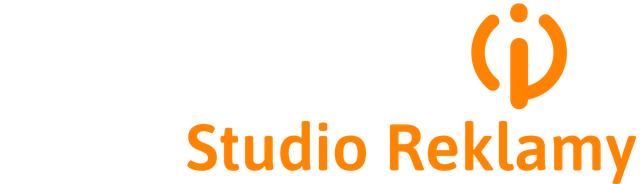
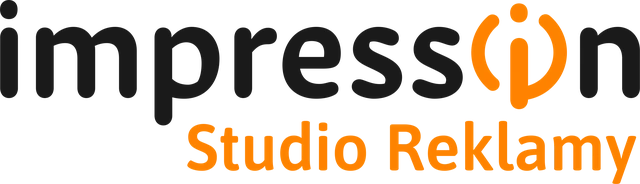
nowi sponsorzy

Changed region(s): [[0.0, 0.1359, 0.75, 0.6793], [0.9062, 0.1359, 1.0, 0.5435], [0.0, 0.0, 0.0312, 0.1087]]

diff --git a/zasoby/style.css b/zasoby/style.css
@@ -76,9 +76,12 @@ h1,h2,h3{font-family:var(--font-naglowki);font-weight:400;letter-spacing:.01em;l
 .belka__wynik,.belka__status{font-family:var(--font-naglowki);font-size:20px;color:var(--zolty);line-height:1;white-space:nowrap}
 .licznik{display:flex;gap:6px;font-family:var(--font-naglowki);font-size:21px;line-height:1;color:var(--zolty);white-space:nowrap}
 .licznik small{font-family:var(--font-tresc);font-size:11px;color:var(--jasny-na-granacie);margin-left:1px}
-.belka__social{display:none;gap:14px}
-.belka__social a{text-decoration:none;font-weight:600;color:var(--jasny-na-granacie)}
-.belka__social a:hover{color:#fff}
+.ikona-social{display:inline-grid;place-items:center;border-radius:50%;text-decoration:none;color:inherit;transition:background .2s,color .2s,box-shadow .2s}
+.ikona-social svg{display:block}
+.belka__social{display:none;gap:4px;align-items:center}
+.belka__social .ikona-social{width:34px;height:34px;color:var(--jasny-na-granacie)}
+.belka__social .ikona-social svg{width:18px;height:18px}
+.belka__social .ikona-social:hover{color:#fff;background:rgba(255,255,255,.1)}
 
 /* =====================================================================
    NAGŁÓWEK Z MENU
@@ -455,12 +458,11 @@ img.herb,img.belka__herb,img.tabela__herb{object-fit:contain}
 .logo-sp{background:#fff;box-shadow:inset 0 0 0 1px var(--linia);display:flex;flex-direction:column;align-items:center;justify-content:center;gap:8px;min-height:120px;font-family:var(--font-naglowki);color:var(--granat);font-size:26px;line-height:1;text-align:center;padding:16px 18px;text-decoration:none;transition:transform .2s,box-shadow .2s}
 a.logo-sp:hover{transform:translateY(-2px);box-shadow:inset 0 0 0 1px var(--blekit),0 10px 24px -14px rgba(0,47,108,.45)}
 .logo-sp__img{display:block;max-height:92px;max-width:100%;width:auto;height:auto;object-fit:contain}
-.logo-sp--ciemne{background:var(--granat);box-shadow:none;color:#fff}
-.loga--tytularny .logo-sp{min-height:170px;font-size:56px;background:var(--paski),var(--tlo-granat);box-shadow:none;color:#fff}
-.loga--tytularny .logo-sp small{display:block;font-family:var(--font-tresc);font-size:14px;letter-spacing:.2em;color:var(--zolty)}
+.loga--tytularny .logo-sp{min-height:180px;font-size:56px}
 .loga--tytularny .logo-sp__img{max-height:130px}
 .loga--partner .logo-sp{min-height:96px;font-size:19px;padding:14px}
-.loga--partner .logo-sp__img{max-height:68px;max-width:78%}
+.loga--partner .logo-sp__img{max-height:64px;max-width:72%}
+.loga--techniczny .logo-sp__img{max-height:56px;max-width:70%}
 .cta > *{max-width:720px}
 .cta p{font-size:21px}
 
@@ -528,13 +530,15 @@ a.logo-sp:hover{transform:translateY(-2px);box-shadow:inset 0 0 0 1px var(--blek
 .dane-klubu{display:grid;grid-template-columns:auto 1fr;gap:6px 16px;background:#fff;padding:18px;margin:0}
 .dane-klubu dt{font-weight:700;color:var(--tekst-szary)}
 .dane-klubu dd{margin:0}
-.kontakt__mail{font-family:var(--font-naglowki);font-size:36px;line-height:1;word-break:break-all}
+.kontakt__mail{font-family:var(--font-naglowki);font-size:clamp(24px,7vw,36px);line-height:1;overflow-wrap:anywhere}
 .kontakt__mail a{color:var(--granat);text-decoration-color:var(--zolty)}
 .kontakt__osoby{list-style:none;padding:0;margin:0 0 24px;display:grid;gap:12px}
 .kontakt__osoby li{display:grid}
 .kontakt__osoby a{display:inline-flex;align-items:center;min-height:44px}
-.kontakt__social{list-style:none;padding:0;display:flex;flex-wrap:wrap;gap:8px 20px;font-weight:700;text-transform:uppercase}
-.kontakt__social a{display:inline-flex;align-items:center;min-height:44px}
+.kontakt__social{list-style:none;padding:0;display:flex;flex-wrap:wrap;gap:10px}
+.kontakt__social .ikona-social{width:52px;height:52px;background:var(--granat);color:#fff}
+.kontakt__social .ikona-social svg{width:24px;height:24px}
+.kontakt__social .ikona-social:hover{background:var(--blekit);color:var(--granat-ciemny)}
 .kontakt__karta{background:var(--granat);color:#fff;padding:24px}
 .kontakt__karta h2{font-size:30px;color:var(--zolty);margin-bottom:6px}
 .polityka ul{padding-left:1.2em}
@@ -545,7 +549,9 @@ a.logo-sp:hover{transform:translateY(-2px);box-shadow:inset 0 0 0 1px var(--blek
 .stopka{background:var(--granat-ciemny);color:#D5E2F2;padding:44px 0 24px;font-size:17px}
 .stopka__kolumny{display:grid;grid-template-columns:1fr 1fr;gap:22px 16px}
 .stopka__kolumny > div:nth-child(-n+2){grid-column:1/-1}
-.stopka__social{display:flex;flex-wrap:wrap;gap:0 16px}
+.stopka__social{display:flex;flex-wrap:wrap;gap:10px}
+.stopka .ikona-social{display:grid;width:46px;height:46px;min-height:0;box-shadow:inset 0 0 0 1px rgba(255,255,255,.28)}
+.stopka .ikona-social:hover{background:var(--blekit);color:var(--granat-ciemny);box-shadow:none}
 .stopka h2{font-size:26px;color:var(--blekit);margin-bottom:8px}
 .stopka ul{list-style:none;margin:0;padding:0}
 .stopka a{color:#fff;text-decoration:none;display:inline-flex;align-items:center;min-height:40px}
@@ -608,7 +614,7 @@ a.logo-sp:hover{transform:translateY(-2px);box-shadow:inset 0 0 0 1px var(--blek
 .mecz,.zawodniczka,.kafel,.news,.produkt,.grupa,.ostatni,.tabela-ramka,
 .logo-sp,.dane-klubu,.kal__wpis,.album .galeria__el,.formularz__ramka iframe,
 .artykul__foto,.plakat__foto img,.druzyna__zdjecie img{border-radius:var(--r-m);overflow:hidden}
-.panel,.kontakt__karta,.loga--tytularny .logo-sp{border-radius:var(--r-l);overflow:hidden}
+.panel,.kontakt__karta{border-radius:var(--r-l);overflow:hidden}
 .kafel--akademia{border-radius:var(--r-l)}
 .kal__dzien{border-radius:var(--r-s)}
 /* Wpisy kalendarium: kolorowy pasek z lewej (rysowany cieniem, bo ramka nie lubi zaokrągleń) */
@@ -672,7 +678,7 @@ a.logo-sp:hover{transform:translateY(-2px);box-shadow:inset 0 0 0 1px var(--blek
   .newsy--wszystkie .news--duzy{grid-column:1/-1;grid-row:auto}
   .loga{grid-template-columns:repeat(4,1fr)}
   .loga--tytularny{grid-template-columns:1fr}
-  .loga--strategiczny{grid-template-columns:repeat(2,1fr)}
+  .loga--strategiczny,.loga--techniczny{grid-template-columns:repeat(2,1fr)}
   .loga--partner{grid-template-columns:repeat(4,1fr)}
   .stopka__kolumny{grid-template-columns:repeat(4,1fr)}
   .stopka__kolumny > div:nth-child(-n+2){grid-column:auto}

diff --git a/szablony.py b/szablony.py
@@ -48,6 +48,30 @@ MENU = [
 ]
 
 
+# Ikony serwisów społecznościowych (proste znaki SVG w kolorze tekstu – currentColor)
+IKONY_SOCIAL = {
+    "facebook": ("Facebook", '<path fill="currentColor" d="M13.5 22v-8h2.7l.4-3.2h-3.1V8.8c0-.9.3-1.6 1.6-1.6h1.7V4.4c-.3 0-1.3-.1-2.5-.1-2.5 0-4.1 1.5-4.1 4.2v2.3H7.5V14h2.7v8z"/>'),
+    "instagram": ("Instagram", '<rect x="3" y="3" width="18" height="18" rx="5" fill="none" stroke="currentColor" stroke-width="2"/>'
+                               '<circle cx="12" cy="12" r="4.2" fill="none" stroke="currentColor" stroke-width="2"/>'
+                               '<circle cx="17.3" cy="6.7" r="1.3" fill="currentColor"/>'),
+    "youtube": ("YouTube", '<path fill="currentColor" fill-rule="evenodd" d="M6 5h12a4 4 0 0 1 4 4v6a4 4 0 0 1-4 4H6a4 4 0 0 1-4-4V9a4 4 0 0 1 4-4zm4 3.8v6.4l5.6-3.2z"/>'),
+}
+
+
+def social_linki(klasa, z_lista=False):
+    """Ikony Facebook / Instagram / YouTube z linkami do profili klubu (C.KLUB)."""
+    linki = []
+    for klucz, (nazwa, ksztalt) in IKONY_SOCIAL.items():
+        adres = C.KLUB.get(klucz)
+        if not adres:
+            continue
+        a = (f'<a class="ikona-social" href="{e(adres)}" target="_blank" rel="noopener" '
+             f'aria-label="{nazwa} – profil klubu" title="{nazwa}">'
+             f'<svg viewBox="0 0 24 24" width="22" height="22" aria-hidden="true">{ksztalt}</svg></a>')
+        linki.append(f"<li>{a}</li>" if z_lista else a)
+    return "".join(linki)
+
+
 def galeria_ma_zdjecia():
     for a in C.GALERIA:
         folder = os.path.join(FOLDER, "img", "galeria", a["folder"])
@@ -239,11 +263,7 @@ def belka(p, kandydaci):
 <div class="belka" role="region" aria-label="Najbliższy mecz">
   <div class="kontener">
     <div class="belka__tablica" data-belka>{''.join(szablony)}</div>
-    <nav class="belka__social" aria-label="Media społecznościowe">
-      <a href="{C.KLUB['facebook']}" rel="noopener">Facebook</a>
-      <a href="{C.KLUB['instagram']}" rel="noopener">Instagram</a>
-      <a href="{C.KLUB['youtube']}" rel="noopener">YouTube</a>
-    </nav>
+    <nav class="belka__social" aria-label="Media społecznościowe">{social_linki("belka")}</nav>
   </div>
 </div>"""
 
@@ -300,10 +320,7 @@ def uklad(tytul, opis, tresc, aktywna, p, belka_html, wersja):
     <div class="stopka__kolumny">
       <div><h2>Klub</h2><p>{e(C.KLUB['nazwa_prawna'])}<br>{e(C.KLUB['adres'])}</p></div>
       <div><h2>Kontakt</h2><p><a href="mailto:{e(C.KLUB['email'])}">{e(C.KLUB['email'])}</a>{f"<br>{e(C.KLUB['telefon'])}" if C.KLUB.get('telefon') else ''}</p></div>
-      <div><h2>Obserwuj</h2><ul class="stopka__social">
-        <li><a href="{C.KLUB['facebook']}" rel="noopener">Facebook</a></li>
-        <li><a href="{C.KLUB['instagram']}" rel="noopener">Instagram</a></li>
-        <li><a href="{C.KLUB['youtube']}" rel="noopener">YouTube</a></li></ul></div>
+      <div><h2>Obserwuj</h2><ul class="stopka__social">{social_linki("stopka", True)}</ul></div>
       <div><h2>Na skróty</h2><ul>
         {skroty}
         <li><a href="{p}akademia.html#ochrona">Standardy ochrony małoletnich</a></li>

diff --git a/content.py b/content.py
@@ -338,21 +338,22 @@ Dziękujemy za wsparcie!
 #   "tabela", "kadra", "akademia", "terminarz" albo None
 # ---------------------------------------------------------------------
 #   logo: plik w img/sponsorzy/ (PNG/SVG/WebP), np. "sponsorzy/easy-wrap.webp" – dopóki brak, widać nazwę
-#   tlo: "ciemne" – dla logo w wersji białej (kafelek dostaje granatowe tło)
+#   poziom: "tytularny", "strategiczny", "techniczny" (partner techniczny) albo "partner"
 SPONSORZY = {
     "easy-wrap":  {"nazwa": "Easy Wrap", "poziom": "tytularny", "logo": "sponsorzy/easy-wrap.webp", "www": "https://easywrap.pl", "prezentuje": None},
     "miasto":     {"nazwa": "Miasto Kobyłka", "poziom": "strategiczny", "logo": "sponsorzy/miasto.webp", "www": "https://kobylka.pl", "prezentuje": None},
     "pit-radwar": {"nazwa": "PIT-RADWAR", "poziom": "strategiczny", "logo": "sponsorzy/pit-radwar.webp", "www": "https://pitradwar.com", "prezentuje": None},
+    "vexar":      {"nazwa": "VEXAR ATHLETIC", "poziom": "techniczny", "logo": "sponsorzy/vexar.webp", "www": None, "prezentuje": None},
     "dorol":      {"nazwa": "Dorol", "poziom": "partner", "logo": "sponsorzy/dorol.webp", "www": "https://dorol.pl", "prezentuje": None},
     "fhr":        {"nazwa": "FHR", "poziom": "partner", "logo": "sponsorzy/fhr.webp", "www": "https://fhr.com.pl", "prezentuje": None},
     "fortisgo":   {"nazwa": "fortisGO", "poziom": "partner", "logo": "sponsorzy/fortisgo.webp", "www": "https://fortisgo.com", "prezentuje": None},
-    "impression": {"nazwa": "Impression Studio Reklamy", "poziom": "partner", "logo": "sponsorzy/impression.webp", "www": "https://impression4you.pl", "prezentuje": None, "tlo": "ciemne"},
+    "impression": {"nazwa": "Impression Studio Reklamy", "poziom": "partner", "logo": "sponsorzy/impression.webp", "www": "https://impression4you.pl", "prezentuje": None},
     "kriva":      {"nazwa": "Kriva HiTech Beauty", "poziom": "partner", "logo": "sponsorzy/kriva.webp", "www": None, "prezentuje": None},
     "racbus":     {"nazwa": "Racbus", "poziom": "partner", "logo": "sponsorzy/racbus.webp", "www": "https://racbus.pl", "prezentuje": None},
     "zdrofit":    {"nazwa": "Zdrofit", "poziom": "partner", "logo": "sponsorzy/zdrofit.webp", "www": "https://zdrofit.pl", "prezentuje": None},
     "sp3":        {"nazwa": "SP nr 3 im. Karola Wojtyły w Kobyłce", "poziom": "partner", "logo": "sponsorzy/sp3.webp", "www": "https://sp3kobylka.pl", "prezentuje": None},
     "osir":       {"nazwa": "OSiR „Wicher” w Kobyłce", "poziom": "partner", "logo": "sponsorzy/osir.webp", "www": None, "prezentuje": None},
-    "osp":        {"nazwa": "OSP Kobyłka", "poziom": "partner", "logo": None, "www": None, "prezentuje": None},
+    "osp":        {"nazwa": "OSP Kobyłka", "poziom": "partner", "logo": "sponsorzy/osp.webp", "www": None, "prezentuje": None},
 }
 
 SPONSORZY_TEKST = ("Wspierasz lokalny sport? Pokaż swoją markę na meczach 2. ligi, "

diff --git a/build.py b/build.py
@@ -290,7 +290,8 @@ class Budowa:
         return f'<div class="filtry" role="group" aria-label="Pokaż mecze drużyny">{przyciski}</div>'
 
     def sponsorzy_html(self, p, pelna=False):
-        poziomy = [("tytularny", "Sponsor tytularny"), ("strategiczny", "Sponsorzy strategiczni"), ("partner", "Partnerzy")]
+        poziomy = [("tytularny", "Sponsor tytularny"), ("strategiczny", "Sponsorzy strategiczni"),
+                   ("techniczny", "Partner techniczny"), ("partner", "Partnerzy")]
         bloki = ""
         for klucz, nazwa in poziomy:
             lista = [s for s in C.SPONSORZY.values() if s["poziom"] == klucz]
@@ -299,12 +300,9 @@ class Budowa:
             loga = ""
             for s in lista:
                 wnetrze = S.img(p, s.get("logo"), s["nazwa"], "logo-sp__img") or f"<span>{e(s['nazwa'])}</span>"
-                if klucz == "tytularny":
-                    wnetrze = f"<small>Sponsor tytularny</small>{wnetrze}"
-                klasa = "logo-sp logo-sp--ciemne" if s.get("tlo") == "ciemne" else "logo-sp"
                 tag = (f'a href="{e(s["www"])}" target="_blank" rel="noopener" title="{e(s["nazwa"])}"'
                        if s.get("www") else f'div title="{e(s["nazwa"])}"')
-                loga += f'<{tag} class="{klasa}">{wnetrze}</{tag.split()[0]}>'
+                loga += f'<{tag} class="logo-sp">{wnetrze}</{tag.split()[0]}>'
             bloki += (f'<div class="poziom"><div class="poziom__nazwa">{nazwa}</div>'
                       f'<div class="loga loga--{klucz}">{loga}</div></div>')
         naglowek = "" if pelna else S.naglowek_sekcji("Sponsorzy", "", p + "sponsorzy.html", "Zostań sponsorem", id_="sp-tytul")
@@ -682,11 +680,7 @@ class Budowa:
     <p class="kontakt__mail"><a href="mailto:{e(C.KLUB['email'])}">{e(C.KLUB['email'])}</a></p>
     <ul class="kontakt__osoby">{osoby}</ul>
     {forma}
-    <ul class="kontakt__social">
-      <li><a href="{C.KLUB['facebook']}" rel="noopener">Facebook</a></li>
-      <li><a href="{C.KLUB['instagram']}" rel="noopener">Instagram</a></li>
-      <li><a href="{C.KLUB['youtube']}" rel="noopener">YouTube</a></li>
-    </ul>
+    <ul class="kontakt__social">{S.social_linki("kontakt", True)}</ul>
   </div>
   <div class="kontakt__karta">
     <h2>Klub</h2><p>{e(C.KLUB['nazwa_prawna'])}<br>{e(C.KLUB['adres'])}</p>
